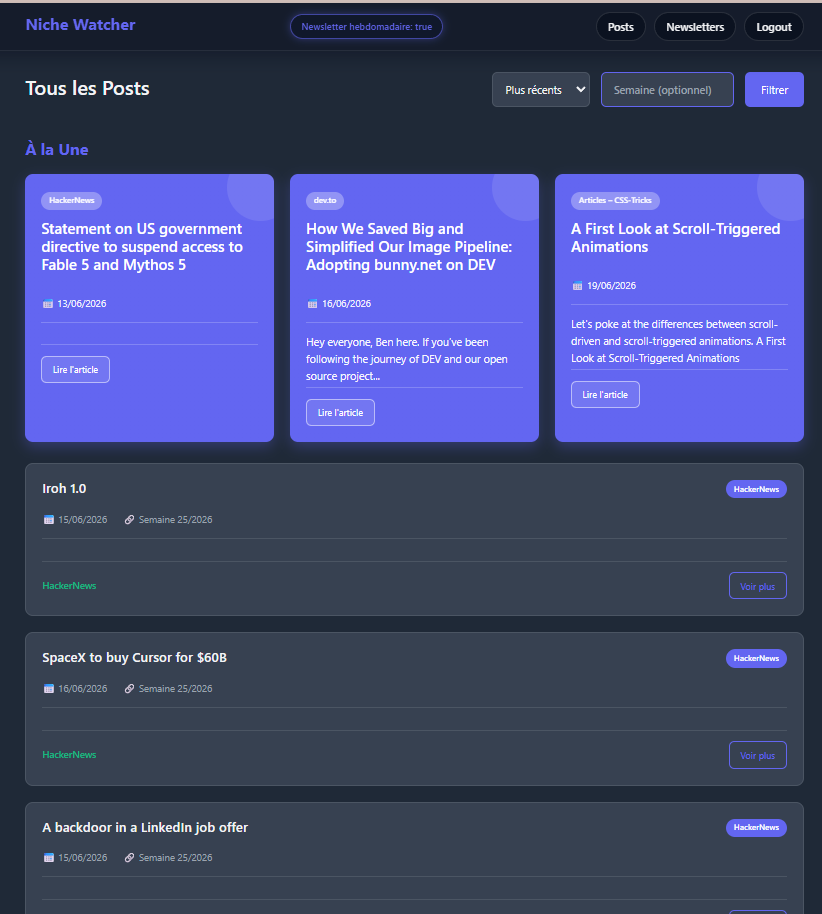
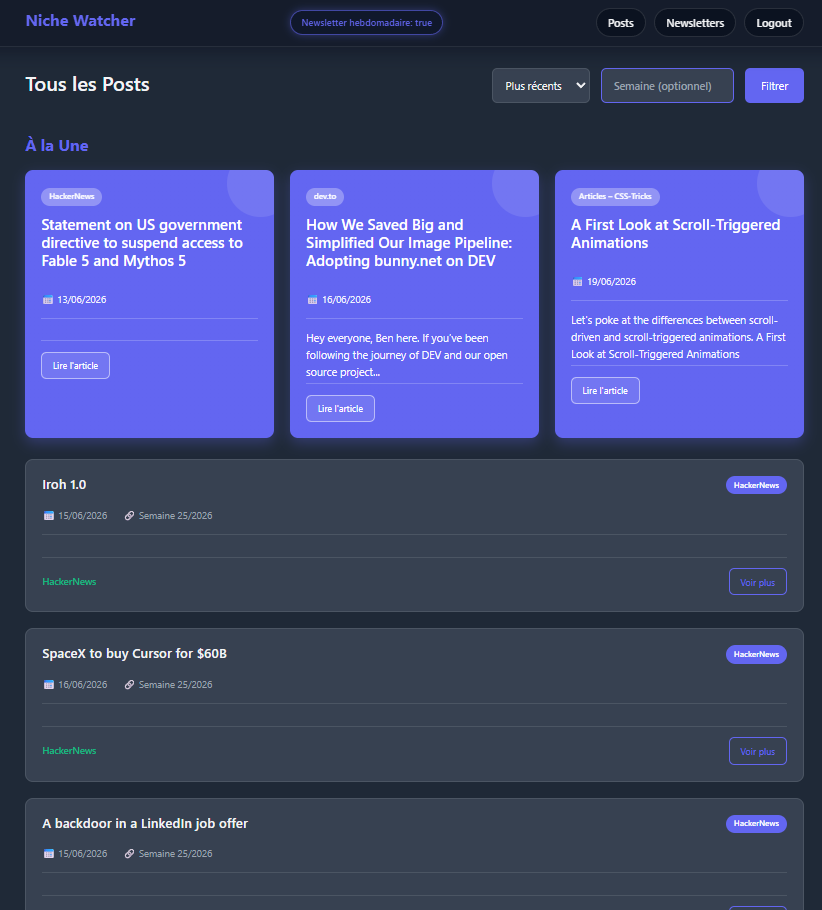
maj portfolio css

diff --git a/static/css/portfolio.css b/static/css/portfolio.css
@@ -191,7 +191,7 @@ body {
 .project-image img {
     width: 100%;
     height: auto;
-    max-height: 450px;
+    max-height: 550px;
     object-fit: cover;
     border-radius: var(--radius-lg);
     transition: var(--transition);
